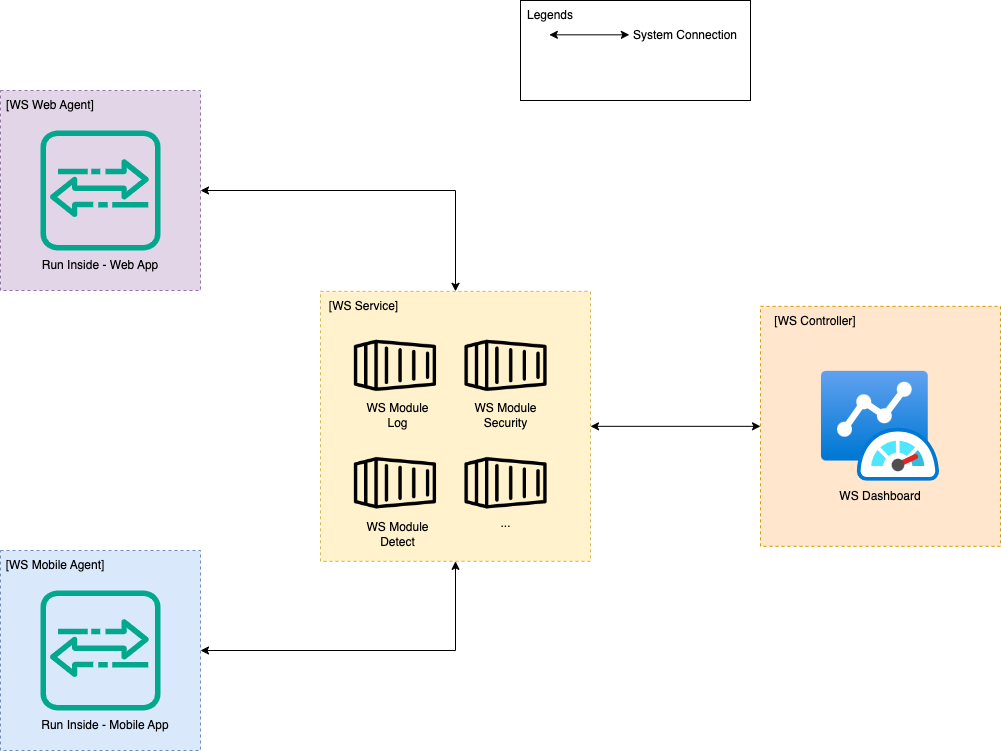
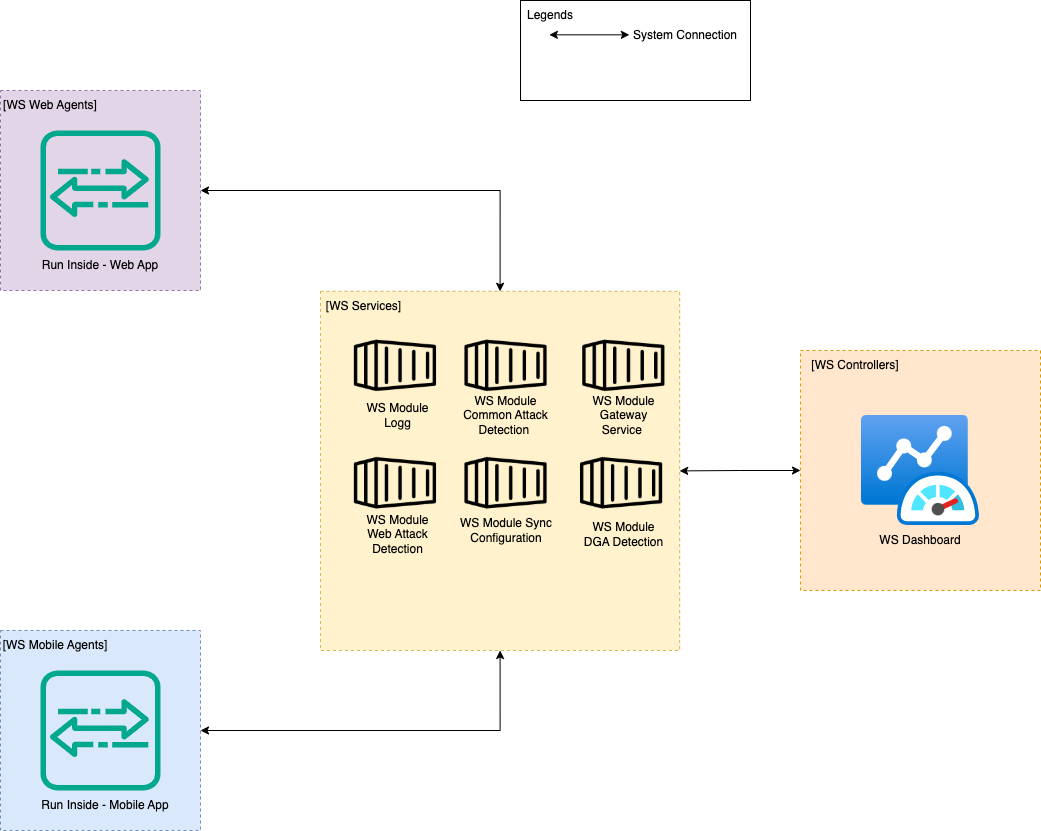
update document and diagram

diff --git a/documents/Whale-Sentinel-Data-Flow.md b/documents/Whale-Sentinel-Data-Flow.md
@@ -2,34 +2,44 @@
 
 ![Data Flow](https://github.com/noobpk/whale-sentinel/blob/main/diagrams/Whale_Sentinel_Data_Flow.png?raw=true)
 
-### 1. WS Agent → WS Service (WS Gateway Service)
+### 1. WS Agents → WS Services (WS Gateway Service)
 
-Data Flow: The WS Agent submits content requests from the client to the WS Service via the WS Gateway Service.
+**Data Flow (Black):** The WS Agent submits content requests from the client to the WS Service via the WS Gateway Service.
 
-### 2. WS Service Processing
+### 2. WS Services Processing
 
-Within WS Service, several modules handle different tasks:
+Within WS Services, several modules handle different tasks:
 
 #### (a) WS Module Web Attack Detection
 
-Audit Flow (Green): The Web Attack Detection module audits incoming content requests for security threats.
+- **Audit Flow (Green):** The Web Attack Detection module audits incoming content requests for security threats.
+- **Configuration Flow (Red):** Receives updated security configurations from WS Module Sync Configuration.
 
-Configuration Flow (Red): Receives updated security configurations from WS Module Sync Configuration.
+#### (b) WS Module DGA Detection
 
-#### (b) WS Module Log
+- **Audit Flow (Green):** The DGA Detection module audits incoming content requests for domain generation algorithm threats.
+- **Configuration Flow (Red):** Receives updated security configurations from WS Module Sync Configuration.
 
-Log Flow (Orange): Collects logs from different WS Service modules.
+#### (c) WS Module Common Attack Detection
 
-Configuration Flow (Red): Receives new configurations from WS Module Sync Configuration.
+- **Audit Flow (Green):** The Common Attack Detection module audits incoming content requests for common attack patterns.
+- **Configuration Flow (Red):** Receives updated security configurations from WS Module Sync Configuration.
 
-#### (c) WS Module Sync Configuration
+#### (d) WS Module Log
 
-Configuration Flow (Red): Syncs new configurations to all WS modules, ensuring they operate with the latest security policies.
+- **Log Flow (Blue):** Collects logs from different WS Service modules.
+- **Configuration Flow (Red):** Receives new configurations from WS Module Sync Configuration.
+
+#### (e) WS Module Sync Configuration
+
+- **Configuration Flow (Red):** Syncs new configurations to all WS modules, ensuring they operate with the latest security policies.
 
 ### 3. WS Service → WS Controller
 
-Log Flow (Orange): Logs collected in WS Module Log are transferred to the WS Controller Database.
+**Log Flow (Blue):** Logs collected in WS Module Log are transferred to the WS Controller Database.
 
 ### 4. WS Controller (WS Dashboard & Database)
 
-Data Flow: The WS Dashboard retrieves and displays logs from the Database.
+- **Data Flow (Black):** The WS Dashboard retrieves and displays data from the Database.
+- **Data Flow (Black):** The Database exchanges data with external systems.
+- **Log Flow (Blue):** Logs are transferred from the WS Controller to the Database.
